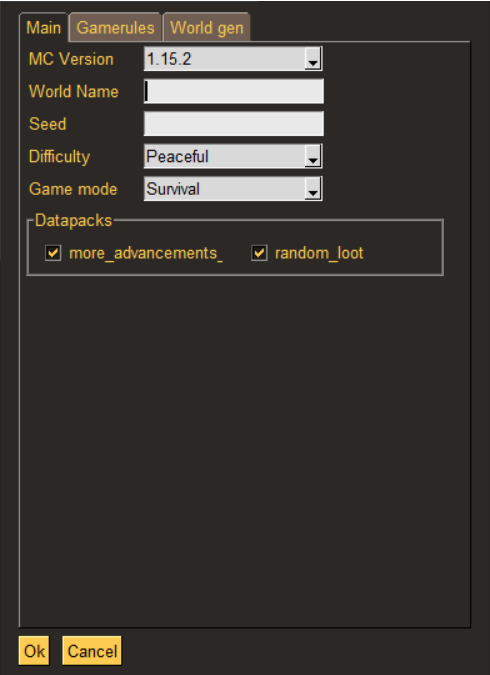
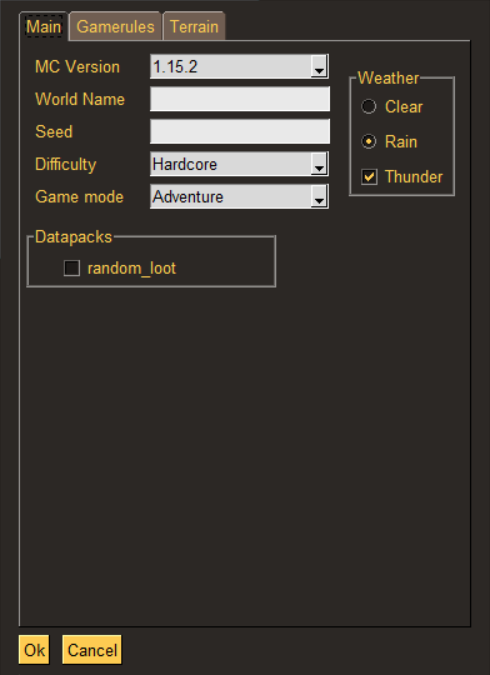
Move some elements in UI

Changed region(s): [[0.0306, 0.0, 0.949, 0.4356], [0.1224, 0.9333, 0.2449, 0.9956], [0.0306, 0.9333, 0.0918, 0.9956]]

diff --git a/FastWorldCreator.py b/FastWorldCreator.py
@@ -39,7 +39,7 @@ gamerules = get_default_gamerules()
 
 def create_layouts():
     def create_main_tab_layout():
-        layout = [[
+        c1_layout = [[
             sg.T('MC Version', size=(10, 1)),
             sg.Combo(
                 [k for k in installed_versions.keys()],
@@ -48,28 +48,40 @@ def create_layouts():
                 readonly=True,
                 key="release")
         ]]
-        layout += [[
+        c1_layout += [[
             sg.T('World Name', size=(10, 1)),
             sg.I(size=(20, 1), key="name")
         ]]
-        layout += [[
+        c1_layout += [[
             sg.T('Seed', size=(10, 1), tooltip="Leave blank for random seed"),
             sg.I(size=(20, 1), tooltip="Leave blank for random seed",
                  key="seed")
         ]]
-        layout += [[
+        c1_layout += [[
             sg.T('Difficulty', size=(10, 1)),
             sg.Combo(difficulties, difficulties[0], (18, 1), readonly=True,
                      key="difficulty")
         ]]
-        layout += [[
+        c1_layout += [[
             sg.T('Game mode', size=(10, 1)),
             sg.Combo(game_modes, game_modes[0], (18, 1), readonly=True,
                      key="game_mode")
         ]]
+        c2_layout = [[sg.Frame('Weather', create_weather_layout())]]
+        layout = [[
+            sg.Col(c1_layout, pad=(5, 7)), sg.Col(c2_layout, pad=(0, 17))
+        ]]
         layout += [[
             sg.Frame('Datapacks', create_datapack_layout(), size=(50, 1))
         ]]
+        return layout
+
+    def create_weather_layout():
+        layout = [
+            [sg.Radio("Clear", "weather", True)],
+            [sg.Radio("Rain", "weather", key="rain")],
+            [sg.CB("Thunder", key="thundering")]
+        ]
         return layout
 
     def create_datapack_layout():
@@ -100,21 +112,13 @@ def create_layouts():
             grouped.add_row(col1, col2)
         return [[grouped]]
 
-    def create_worldgen_layout():
-        weather_layout = [[
-            sg.CB("Raining", key="rain"), sg.CB("Thundering", key="thunder")
-        ]]
-        layout = [[sg.Frame('Weather', weather_layout)]]
-        layout += [[sg.Frame('Generator', create_generator_layout())]]
-        return layout
-
-    def create_generator_layout():
+    def create_terrain_layout():
         layout = []
         layout += [[
-            sg.T("World type", (16, 1)),
+            sg.T("World type", (16, 1), pad=(10, 10)),
             sg.Combo(generators, mu.GeneratorNames.DEFAULT.value.title(),
-                     (25, 1),
-                     readonly=True, enable_events=True, key="generator")
+                     (25, 1), pad=(3, 10), readonly=True, enable_events=True,
+                     key="generator")
         ]]
         layout += [[sg.Frame('Buffet options', create_buffet_options(),
                              key='buffet_option_frame')]]
@@ -123,8 +127,7 @@ def create_layouts():
         return layout
 
     def create_buffet_options():
-        layout = []
-        layout += [[
+        layout = [[
             sg.T("Chunk generator", (15, 1)),
             sg.Combo(chunk_generator_types, chunk_generator_types[0],
                      (25, 1), readonly=True, enable_events=True,
@@ -155,7 +158,7 @@ def create_layouts():
         layout += [[
             sg.T("Biomes", (15, 1)),
             sg.Col([[sg.CB(b, key=f"buffet_biome_{b}")] for b in biomes],
-                   size=(175, 100), pad=(5, 5), scrollable=True,
+                   size=(175, 125), pad=(5, 5), scrollable=True,
                    vertical_scroll_only=True, key="buffet_biomes")
         ]]
         return layout
@@ -185,7 +188,7 @@ def create_layouts():
 
     tab1 = sg.Tab("Main", create_main_tab_layout())
     tab2 = sg.Tab("Gamerules", create_gamerule_layout())
-    tab3 = sg.Tab("World gen", create_worldgen_layout())
+    tab3 = sg.Tab("Terrain", create_terrain_layout())
     main_layout = [
         [sg.TabGroup([[tab1, tab2, tab3]])],
         [sg.Button('Ok'), sg.Button('Cancel')]
@@ -228,7 +231,7 @@ def create(values: dict) -> None:
             values.get("release"),
             installed_versions[values.get("release")]
         ),
-        world_name=values.get("name"),
+        world_name=values.get("name").replace(" ", "_"),
         seed=values.get("seed"),
         difficulty=difficulties.index(values.get("difficulty")),
         datapacks=[dp for dp in available_datapacks if values[dp.name]],

diff --git a/README.md b/README.md
@@ -13,7 +13,7 @@ Generate Minecraft worlds with your favourite datapacks in a couple clicks!
   
   <img src="https://github.com/pizzaspren/FastWorldCreator/blob/master/assets/images/gui_main.png" width="275">
   <img src="https://github.com/pizzaspren/FastWorldCreator/blob/master/assets/images/gui_gamerules.png" width="275">
-  <img src="https://github.com/pizzaspren/FastWorldCreator/blob/master/assets/images/gui_worldgen.png" width="275">
+  <img src="https://github.com/pizzaspren/FastWorldCreator/blob/master/assets/images/gui_terrain.png" width="275">
 </details>
 
 Tired of copying and pasting your datapacks every time you create a new world? Want to create a multitude of worlds in a very short time? Would you like to create worlds for different versions of Minecraft without even launching the game?
@@ -33,7 +33,8 @@ Look no further, this application is just what you need!
 ### Requirements
 Check out the [releases](https://github.com/pizzaspren/FastWorldCreator/releases) page for the executable versions.
 
-If you want to run the application via code, this is what you will need:
+If you want to run the application via code, you will need to run
+`pip -r requirements.txt`. Otherwise, you can install these items manually.
 * Python 3.7+
     * [PySimpleGUI](https://pypi.org/project/PySimpleGUI/) 4.19.0+
     * [nbtlib](https://pypi.org/project/nbtlib/) 1.6.5+
